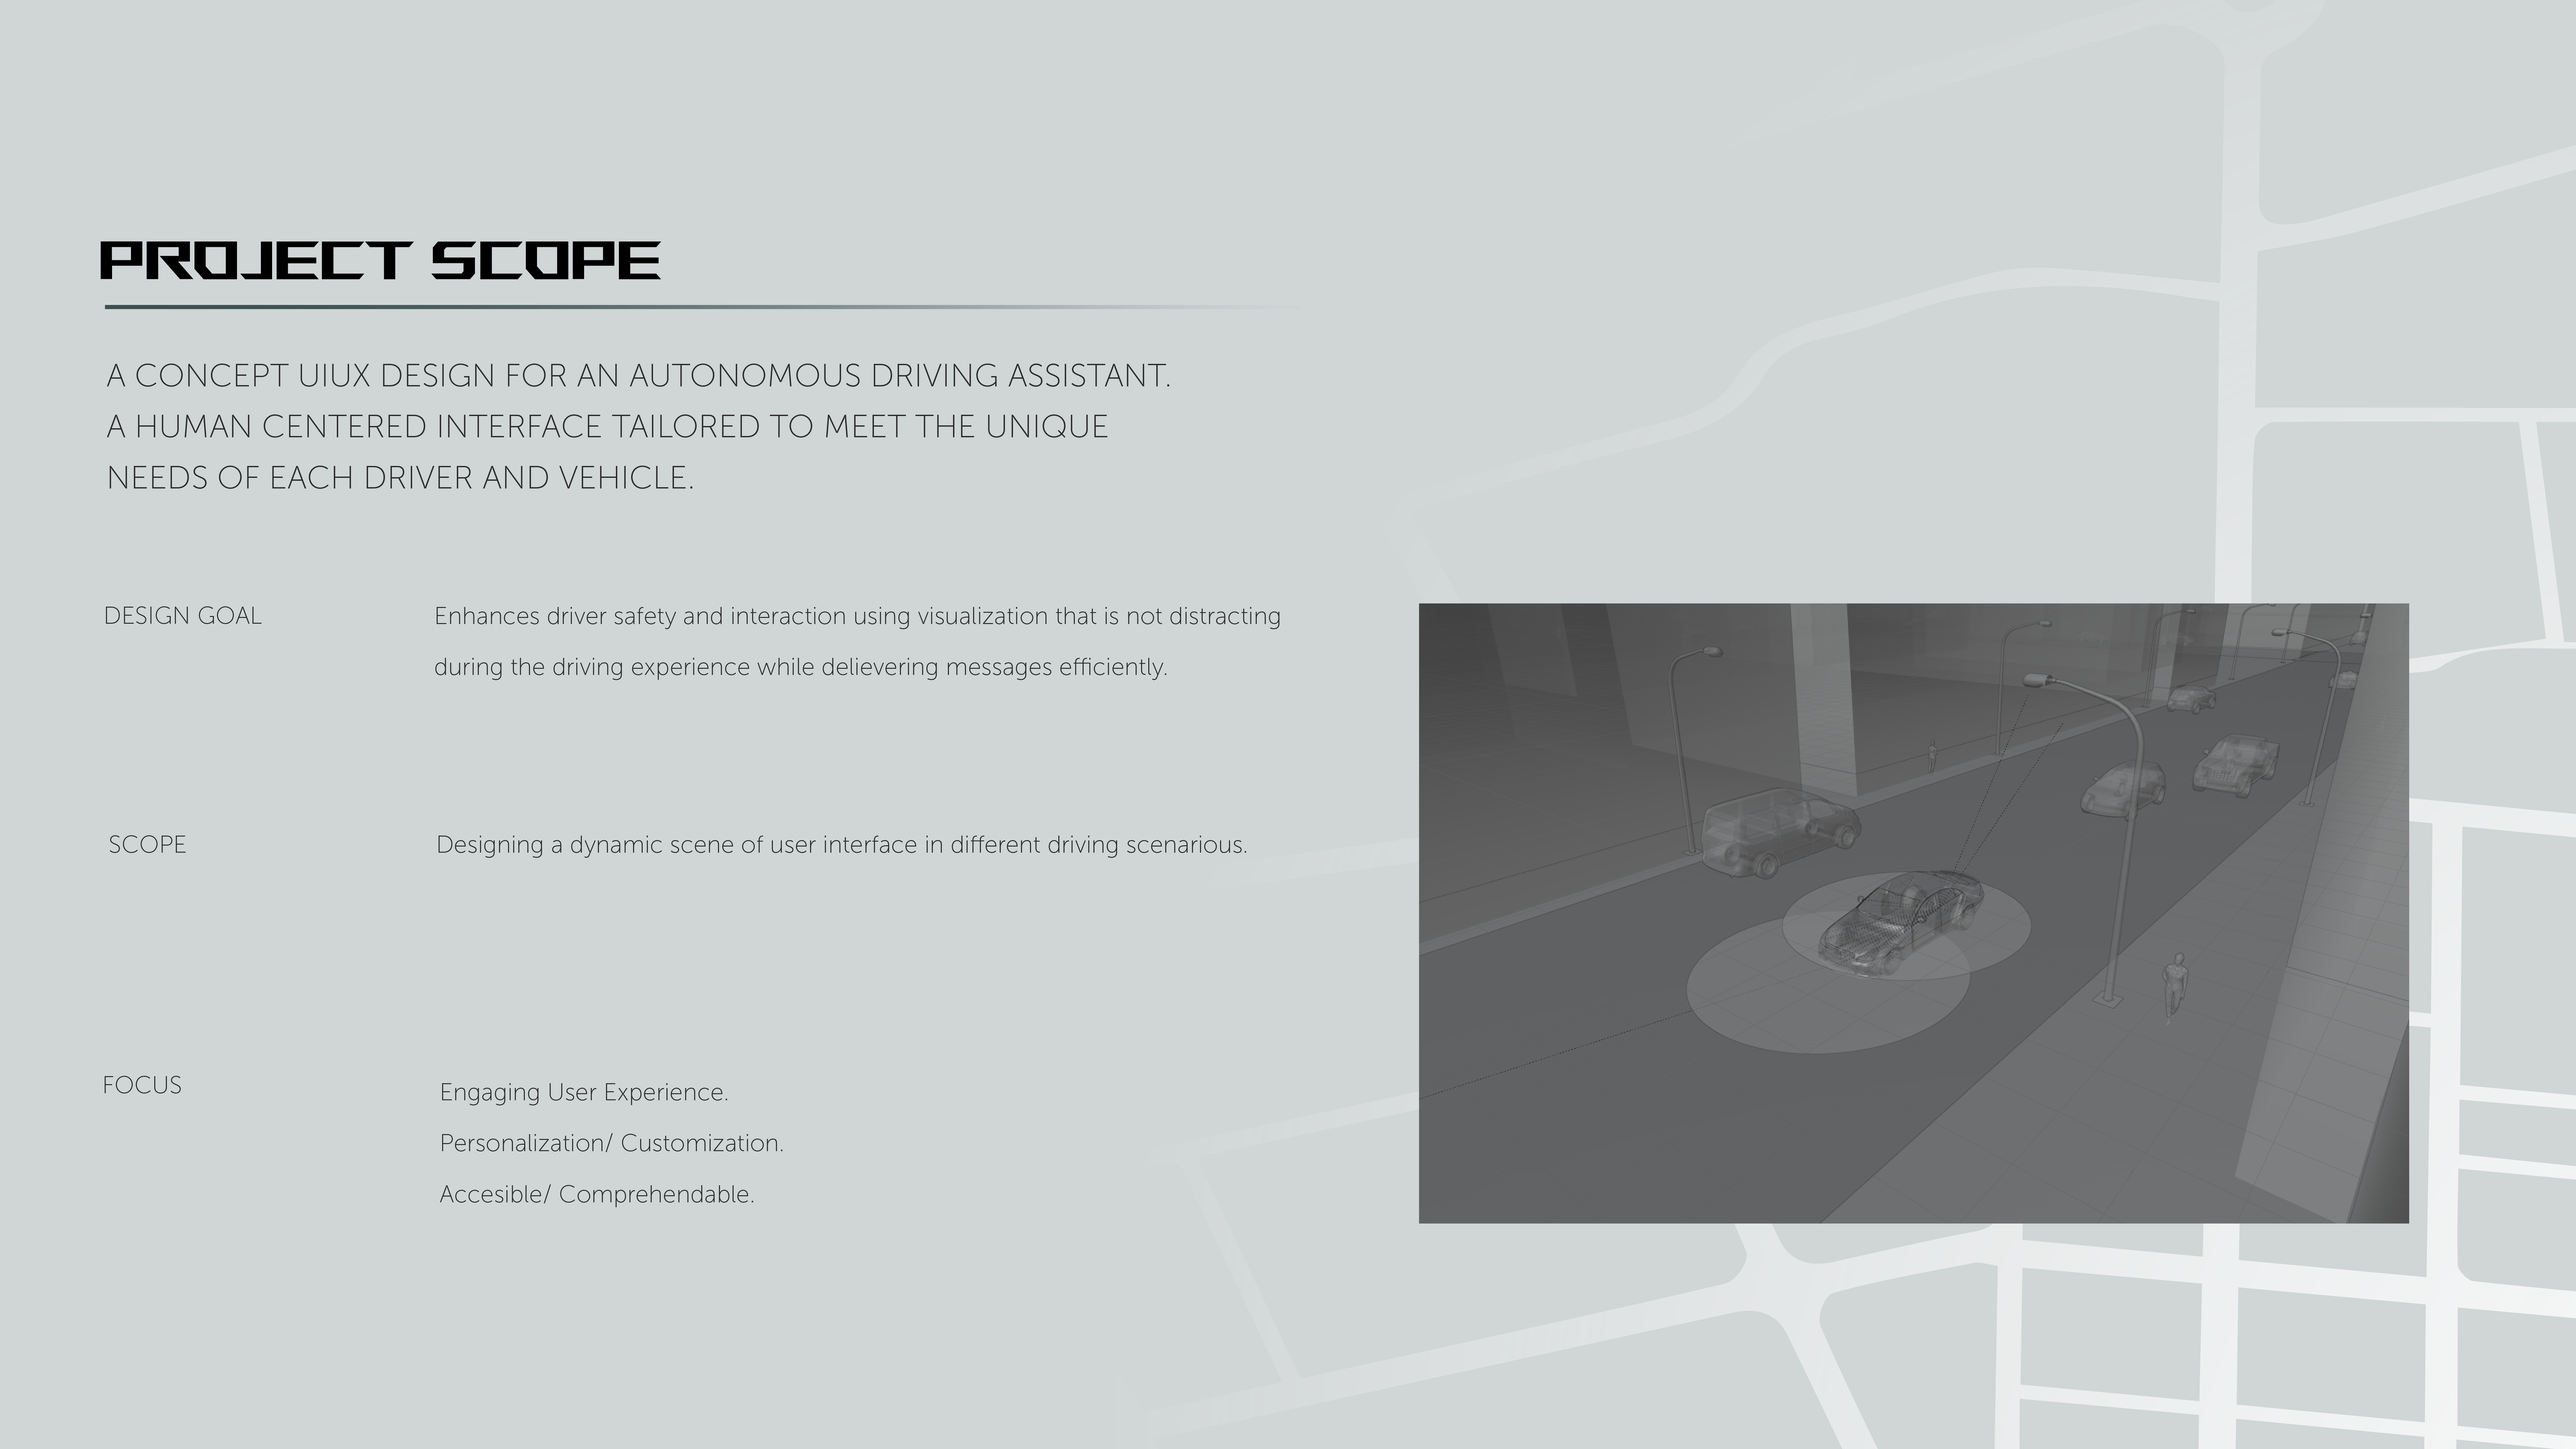
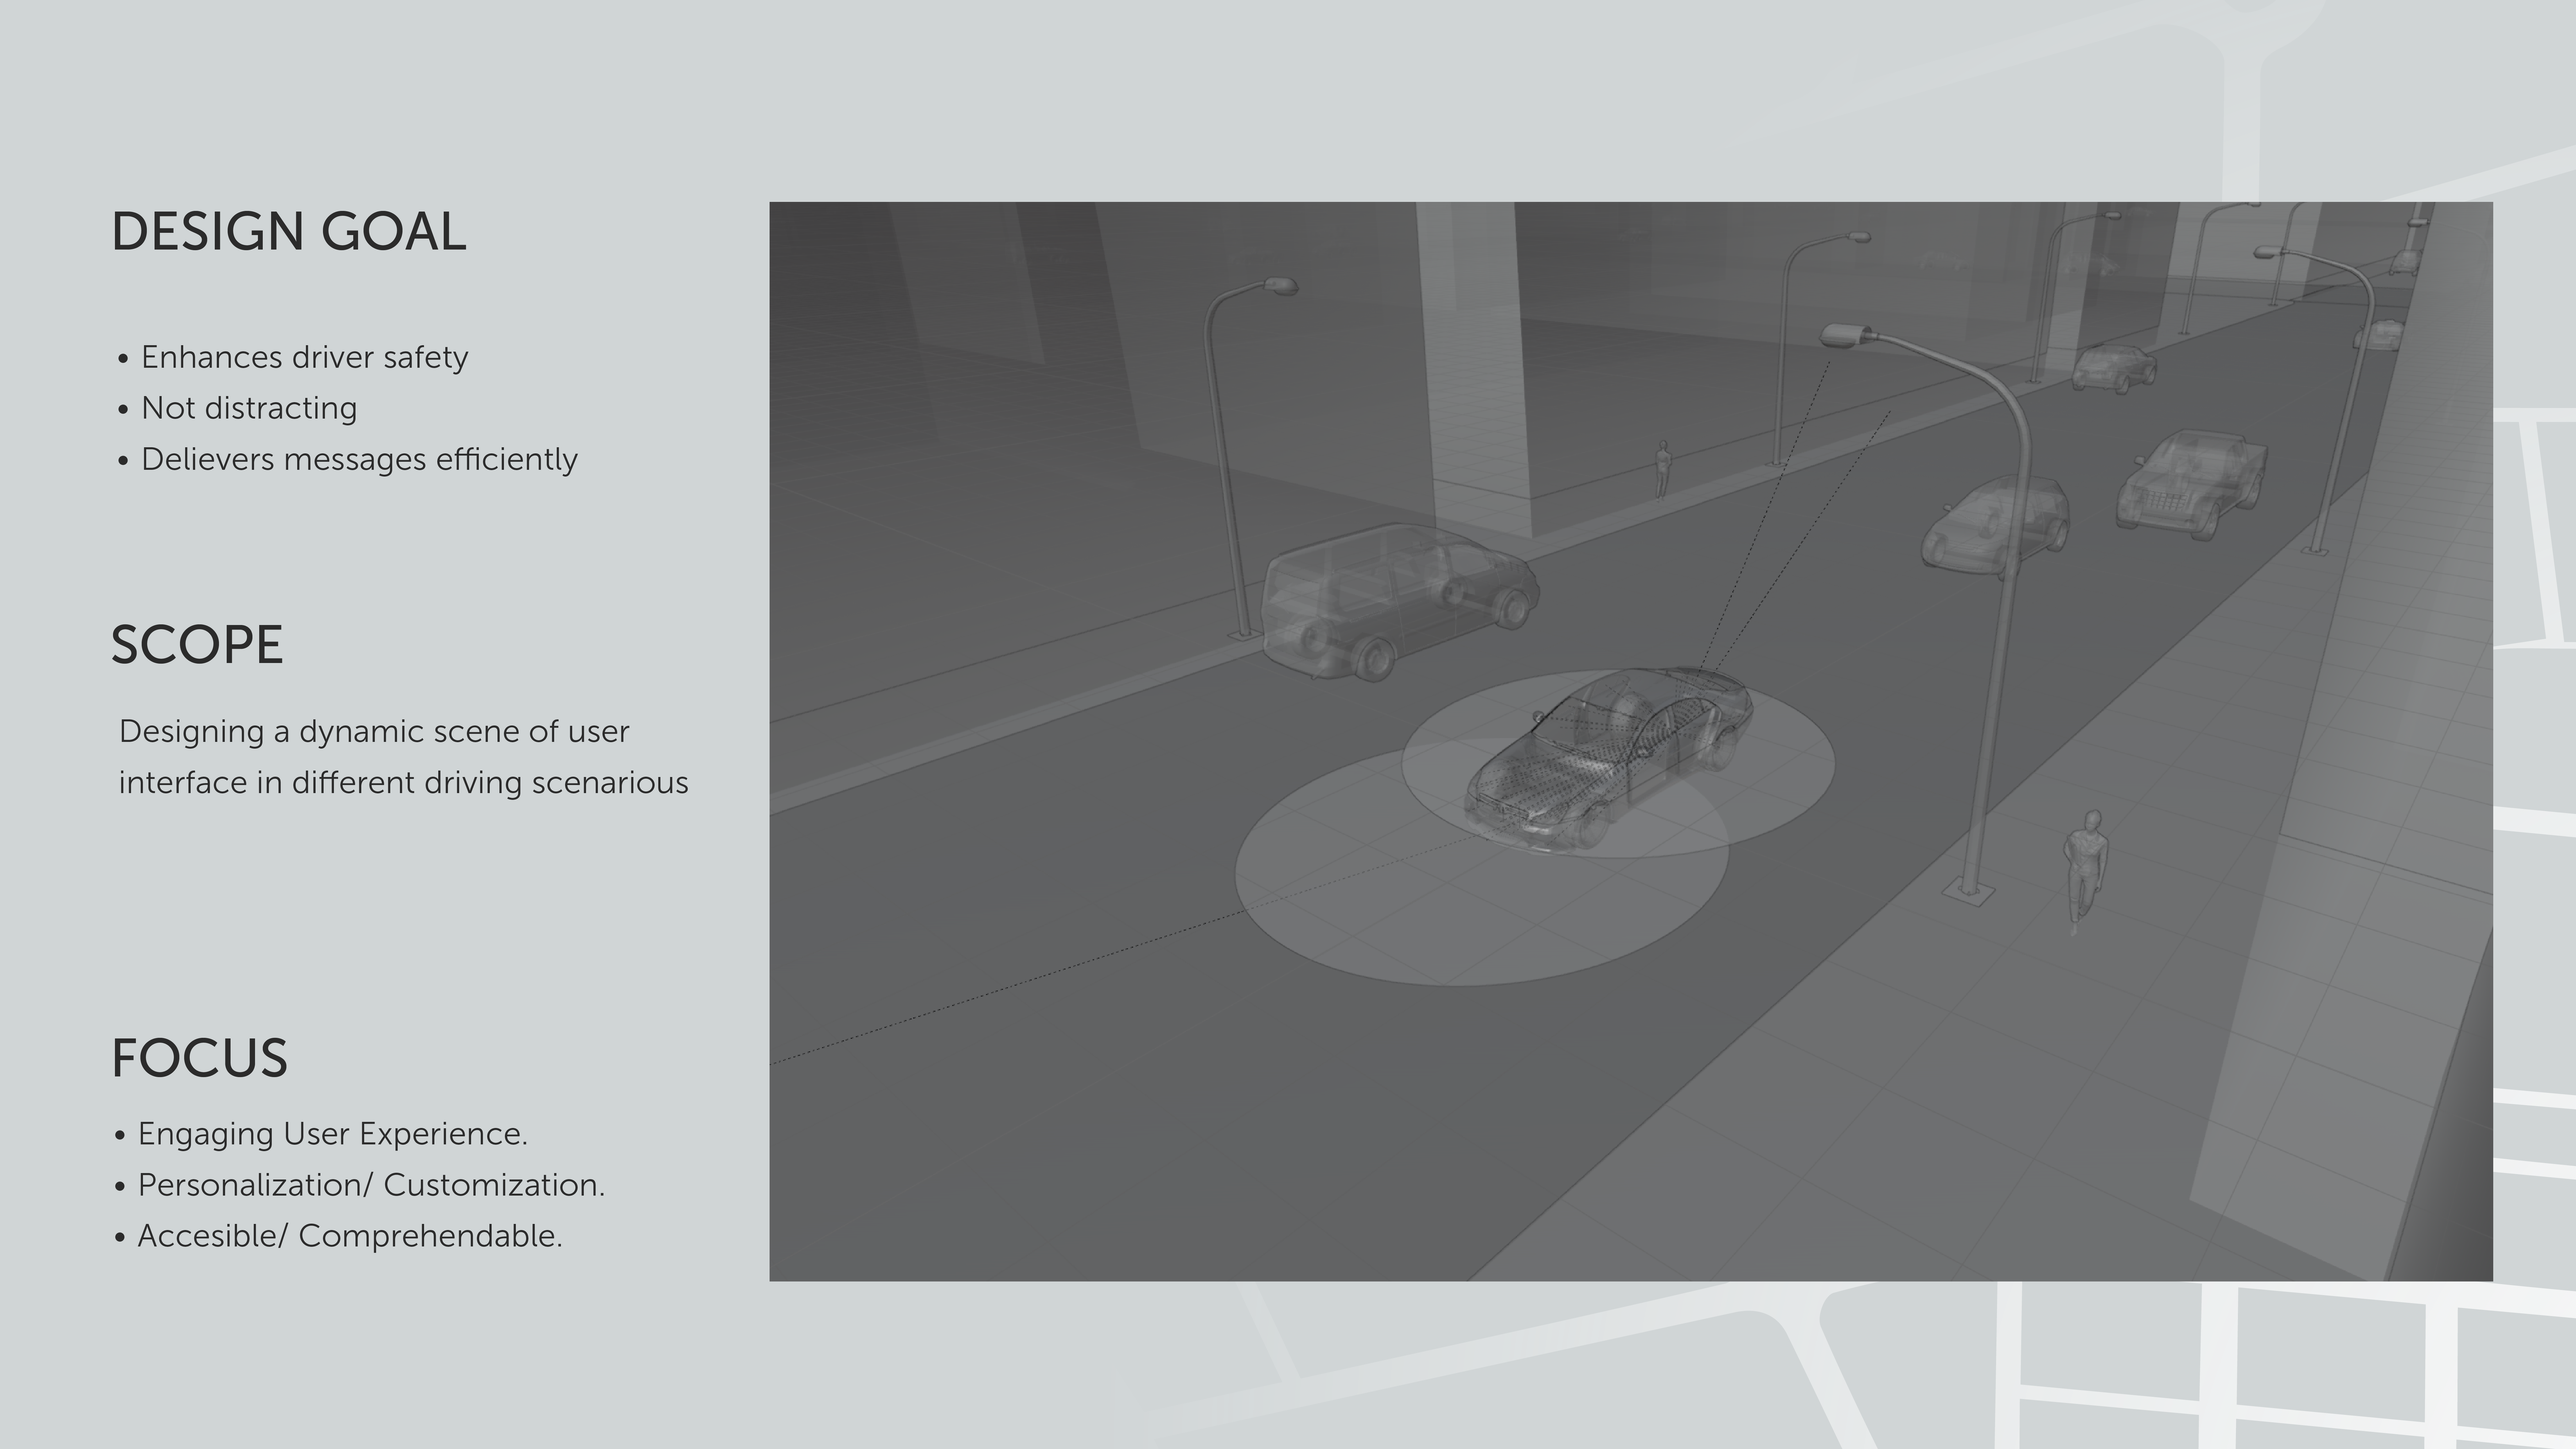
h

diff --git a/adaseco.html b/adaseco.html
@@ -61,13 +61,24 @@
                 <img src="images/adaseco/slide1.png" alt="Adaseco Presentation 1">
             </div>
             <div class="spacer"></div>
+            <div class="presentation-images">
+                <div class="spacer"></div>
+                <img src="images/adaseco/slidea.png" alt="Adaseco Presentation 1">
+            </div>
             <div class="feature-text">
                 <p>After extensive research into current autonomous driving systems, I identified a significant gap between technical capabilities and user experience. I designed this concept UI/UX for an autonomous driving assistant that prioritizes the human element. My approach creates a human-centered interface that adapts to individual driver preferences and vehicle specifications, rather than forcing users to adapt to technology. I focused on creating an experience that enhances safety while providing intuitive visualization that doesn't distract from the road ahead.</p>
             </div>
+
+            <section class="image-title">
+                <h2>PROJECT SCOPE</h2>
+            </section>
             <div class="presentation-images">
                 <img src="images/adaseco/slide2.png" alt="Adaseco Presentation 2">
             </div>
             <div class="spacer"></div>
+            <section class="image-title">
+                <h2>RESEARCH</h2>
+            </section>
             <div class="feature-text">
                 <p> Through this research, I've discovered there is a clear hierarchy of features with safety being the most critical priority. This systematic approach helped me establish design priorities that balance critical safety features with driver comfort and personalization options. By understanding what matters most to users.</p>
             </div>
@@ -75,6 +86,9 @@
                 <img src="images/adaseco/slide3.png" alt="Adaseco Presentation 3">
             </div>
             <div class="spacer"></div>
+            <section class="image-title">
+                <h2>COMPETITIVE ANALYSIS</h2>
+            </section>
             <div class="feature-text">
                 <p> I examined Waymo, Tesla, and Zoox across key dimensions to understand their strengths, weaknesses, convenience factors, and price points.More importantly, I discovered a critical opportunity space: while these systems focus primarily on technological capabilities, none has fully addressed the human-centered interface that puts users' unique needs first. </p>
             </div>
@@ -82,19 +96,25 @@
                 <img src="images/adaseco/slide4.png" alt="Adaseco Presentation 4">
             </div>
             <div class="spacer"></div>
+            <section class="image-title">
+                <h2>MOODBOARD</h2>
+            </section>
             <div class="presentation-images">
                 <img src="images/adaseco/slide5.png" alt="Adaseco Presentation 5">
             </div>
             <div class="spacer"></div>
-            <div class="feature-text">
-                <p>The 3D visualization presents a clear and intuitive representation of the driving environment. I deliberately used low-poly models for surrounding vehicles to maintain essential information while minimizing visual complexity and cognitive load for the driver. I focused on creating intuitive visualizations of the autonomous system's technical operations such as collision avoidance, alerts, streetsigns, and parking assistant. </p>
-            </div>
+            <section class="image-title">
+                <h2>PROJECT VISUALIZATION & KEY FEATURES</h2>
+            </section>
             <div class="presentation-images">
                 <img src="images/adaseco/slide6.png" alt="Adaseco Presentation 6">
             </div>
             <div class="spacer"></div>
             <div class="presentation-images">
                 <img src="images/adaseco/slide7.png" alt="Adaseco Presentation 7">
+            </div>
+            <div class="feature-text">
+                <p>The 3D visualization presents a clear and intuitive representation of the driving environment. I deliberately used low-poly models for surrounding vehicles to maintain essential information while minimizing visual complexity and cognitive load for the driver. I focused on creating intuitive visualizations of the autonomous system's technical operations such as collision avoidance, alerts, streetsigns, and parking assistant. </p>
             </div>
             <div class="spacer"></div>
             <div class="presentation-images">

diff --git a/styles.css b/styles.css
@@ -94,7 +94,6 @@ body {
 .project-card {
     break-inside: avoid;
     margin-bottom: 1rem;
-    margin-bottom: 3rem;
     background: rgba(0, 0, 0, 0.7);
     color: white;
     overflow: hidden;
